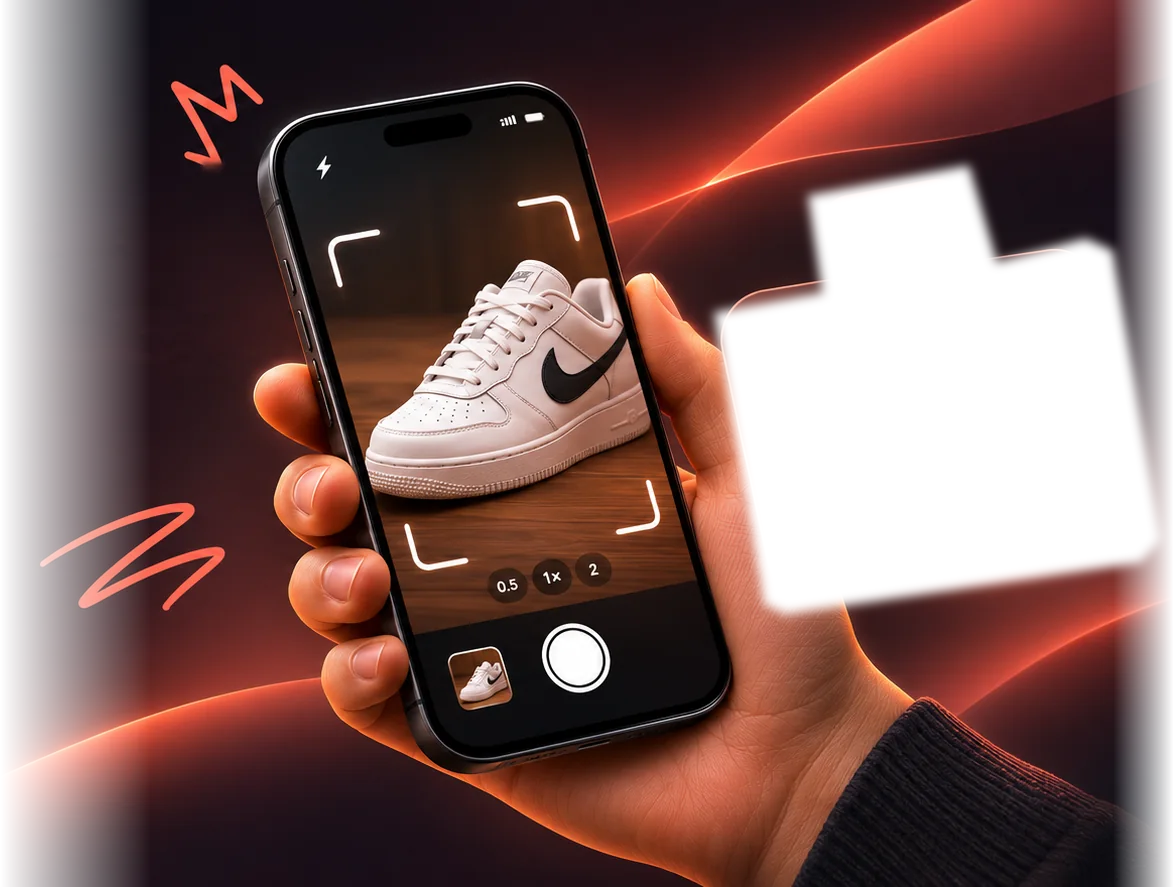
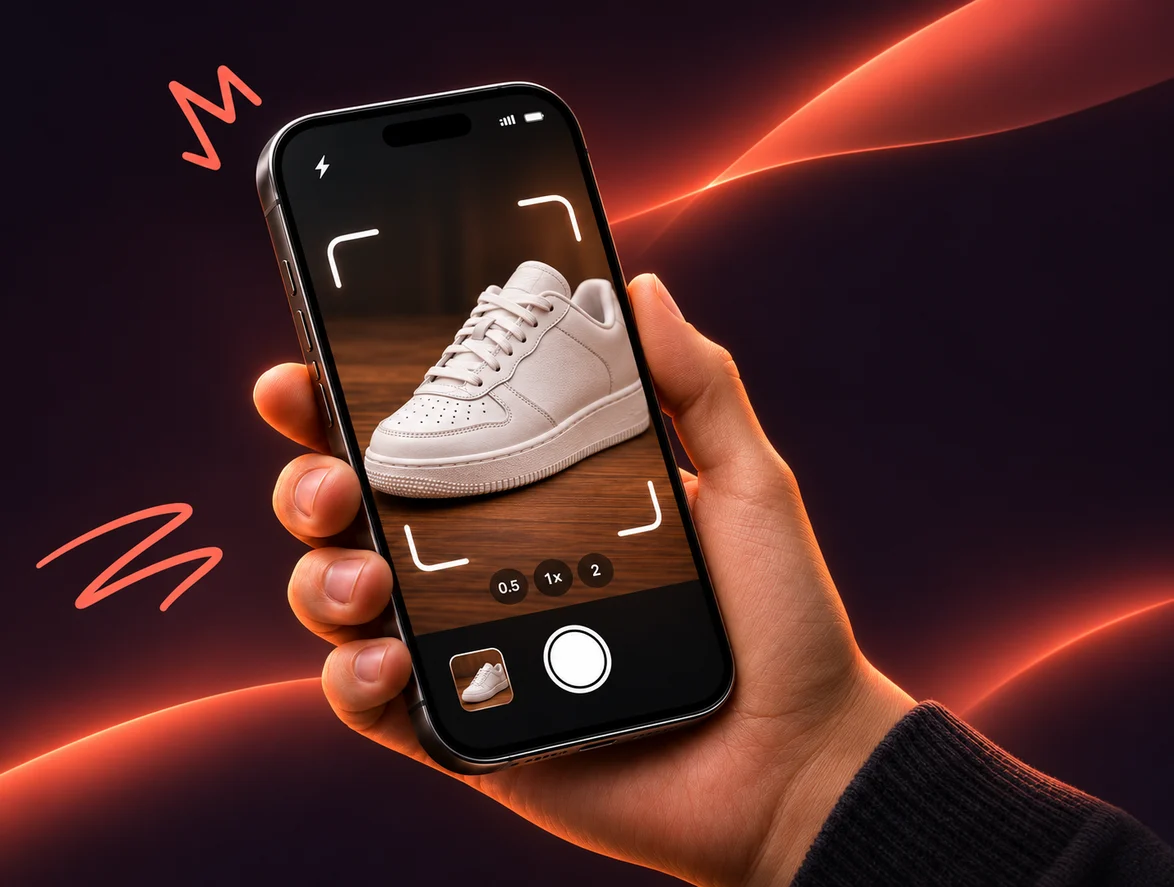
Обкладинка головної: нова картинка без зсунутої картки AI

diff --git a/light/style.css b/light/style.css
@@ -2052,6 +2052,10 @@ details.tk .tk-h { cursor: pointer; }
 @media (max-width: 899px) {
   .chips, .qflt { -webkit-mask-image: linear-gradient(90deg, #000 calc(100% - 24px), transparent); mask-image: linear-gradient(90deg, #000 calc(100% - 24px), transparent); }
 }
+/* обкладинка головної (23.11.2026): нова картинка без старої картки — лівий край мʼяко переходить у фон шапки */
+@media (min-width: 900px) {
+  body.wide .hero .hart img { -webkit-mask-image: linear-gradient(to right, transparent 0, #000 16%, #000 82%, transparent 99%); mask-image: linear-gradient(to right, transparent 0, #000 16%, #000 82%, transparent 99%); }
+}
 
 /* ---- AI-студія: реклама для соцмереж із готового оголошення (рішення власника 22.11.2026, TRAD Everywhere з ТЗ).
    Сторінка studio.html (писана руками; ?item=bag, ?video=making|ready). Входи: кнопка в «Поділіться оголошенням» на кроці

diff --git a/light/verify.html b/light/verify.html
@@ -10,7 +10,7 @@
 <link rel="preconnect" href="https://fonts.googleapis.com">
 <link rel="preconnect" href="https://fonts.gstatic.com" crossorigin>
 <link href="https://fonts.googleapis.com/css2?family=Unbounded:wght@500;700&family=Wix+Madefor+Text:wght@400;500;600;700&display=swap" rel="stylesheet">
-<link rel="stylesheet" href="style.css?v=11230204">
+<link rel="stylesheet" href="style.css?v=11231155">
 </head>
 <!-- Підтвердження особи для значка «Особу підтверджено» (Дія або BankID; інтеграцію погоджує власник). Стилі — tools/trust.css. ?s=wait|ok -->
 <body class="acctpage wide has-bar keepbar">
@@ -67,6 +67,6 @@
   var s0 = q.get('s'); set(s0 === 'wait' || s0 === 'ok' ? s0 : 'ask');
 })();
 </script>
-<script src="shop.js?v=11230204"></script>
+<script src="shop.js?v=11231155"></script>
 </body>
 </html>

diff --git a/light/studio.html b/light/studio.html
@@ -10,7 +10,7 @@
 <link rel="preconnect" href="https://fonts.googleapis.com">
 <link rel="preconnect" href="https://fonts.gstatic.com" crossorigin>
 <link href="https://fonts.googleapis.com/css2?family=Unbounded:wght@500;700&family=Wix+Madefor+Text:wght@400;500;600;700&display=swap" rel="stylesheet">
-<link rel="stylesheet" href="style.css?v=11230204">
+<link rel="stylesheet" href="style.css?v=11231155">
 </head>
 <!-- AI-студія: реклама для соцмереж із готового оголошення (рішення власника 22.11.2026). Стилі — tools/studio.css. -->
 <body class="acctpage wide has-bar keepbar aispage">
@@ -253,6 +253,6 @@
   set(v === 'making' || v === 'ready' || v === 'fail' ? v : 'start');
 })();
 </script>
-<script src="shop.js?v=11230204"></script>
+<script src="shop.js?v=11231155"></script>
 </body>
 </html>

diff --git a/light/promote.html b/light/promote.html
@@ -10,7 +10,7 @@
 <link rel="preconnect" href="https://fonts.googleapis.com">
 <link rel="preconnect" href="https://fonts.gstatic.com" crossorigin>
 <link href="https://fonts.googleapis.com/css2?family=Unbounded:wght@500;700&family=Wix+Madefor+Text:wght@400;500;600;700&display=swap" rel="stylesheet">
-<link rel="stylesheet" href="style.css?v=11230204">
+<link rel="stylesheet" href="style.css?v=11231155">
 </head>
 <!-- «Підняти оголошення»: одне підняття за фіксовану ціну (рішення власника 23.11.2026; ціна — приклад). Стилі — tools/trust.css. ?item=jeans|hoodie|bag -->
 <body class="acctpage wide has-bar keepbar">
@@ -68,6 +68,6 @@
   });
 })();
 </script>
-<script src="shop.js?v=11230204"></script>
+<script src="shop.js?v=11231155"></script>
 </body>
 </html>

diff --git a/light/notifications.html b/light/notifications.html
@@ -10,7 +10,7 @@
 <link rel="preconnect" href="https://fonts.googleapis.com">
 <link rel="preconnect" href="https://fonts.gstatic.com" crossorigin>
 <link href="https://fonts.googleapis.com/css2?family=Unbounded:wght@500;700&family=Wix+Madefor+Text:wght@400;500;600;700&display=swap" rel="stylesheet">
-<link rel="stylesheet" href="style.css?v=11230204">
+<link rel="stylesheet" href="style.css?v=11231155">
 </head>
 <body class="acctpage wide has-bar keepbar">
 <header class="top">
@@ -65,6 +65,6 @@
   if (new URLSearchParams(location.search).get('empty') === '1') { document.getElementById('list').hidden = true; document.getElementById('none').hidden = false; document.getElementById('readall').hidden = true; }
 </script>
 <!-- desk -->
-<script src="shop.js?v=11230204"></script>
+<script src="shop.js?v=11231155"></script>
 </body>
 </html>

diff --git a/light/chat.html b/light/chat.html
@@ -10,7 +10,7 @@
 <link rel="preconnect" href="https://fonts.googleapis.com">
 <link rel="preconnect" href="https://fonts.gstatic.com" crossorigin>
 <link href="https://fonts.googleapis.com/css2?family=Unbounded:wght@500;700&family=Wix+Madefor+Text:wght@400;500;600;700&display=swap" rel="stylesheet">
-<link rel="stylesheet" href="style.css?v=11230204">
+<link rel="stylesheet" href="style.css?v=11231155">
 </head>
 <body class="wide has-bar keepbar chatpage">
 <header class="top">
@@ -95,6 +95,6 @@
   if (new URLSearchParams(location.search).get('empty') === '1') { document.getElementById('list').hidden = true; document.getElementById('none').hidden = false; document.querySelector('.tline').hidden = true; }
 </script>
 <!-- desk -->
-<script src="shop.js?v=11230204"></script>
+<script src="shop.js?v=11231155"></script>
 </body>
 </html>

diff --git a/light/404.html b/light/404.html
@@ -10,7 +10,7 @@
 <link rel="preconnect" href="https://fonts.googleapis.com">
 <link rel="preconnect" href="https://fonts.gstatic.com" crossorigin>
 <link href="https://fonts.googleapis.com/css2?family=Unbounded:wght@500;700&family=Wix+Madefor+Text:wght@400;500;600;700&display=swap" rel="stylesheet">
-<link rel="stylesheet" href="style.css?v=11230204">
+<link rel="stylesheet" href="style.css?v=11231155">
 </head>
 <body class="wide">
 <header class="top">
@@ -56,6 +56,6 @@
   var Q = new URLSearchParams(location.search);
   if (Q.get('gone')) { document.getElementById('lost').hidden = true; document.getElementById('gone').hidden = false; document.title = 'TRAD — Оголошення вже недоступне'; }
 </script>
-<script src="shop.js?v=11230204"></script>
+<script src="shop.js?v=11231155"></script>
 </body>
 </html>

diff --git a/light/city.html b/light/city.html
@@ -10,7 +10,7 @@
 <link rel="preconnect" href="https://fonts.googleapis.com">
 <link rel="preconnect" href="https://fonts.gstatic.com" crossorigin>
 <link href="https://fonts.googleapis.com/css2?family=Unbounded:wght@500;700&family=Wix+Madefor+Text:wght@400;500;600;700&display=swap" rel="stylesheet">
-<link rel="stylesheet" href="style.css?v=11230204">
+<link rel="stylesheet" href="style.css?v=11231155">
 </head>
 <body class="wide has-bar keepbar pickpage">
 <header class="top">
@@ -74,6 +74,6 @@
   });
   document.getElementById('back').addEventListener('click', function (e) { if (history.length > 1) { e.preventDefault(); history.back(); } });
 </script>
-<script src="shop.js?v=11230204"></script>
+<script src="shop.js?v=11231155"></script>
 </body>
 </html>

diff --git a/light/contacts.html b/light/contacts.html
@@ -10,7 +10,7 @@
 <link rel="preconnect" href="https://fonts.googleapis.com">
 <link rel="preconnect" href="https://fonts.gstatic.com" crossorigin>
 <link href="https://fonts.googleapis.com/css2?family=Unbounded:wght@500;700&family=Wix+Madefor+Text:wght@400;500;600;700&display=swap" rel="stylesheet">
-<link rel="stylesheet" href="style.css?v=11230204">
+<link rel="stylesheet" href="style.css?v=11231155">
 </head>
 <body class="acctpage formpage wide has-bar keepbar">
 <header class="top">
@@ -53,6 +53,6 @@
   document.getElementById('save').addEventListener('click', function () { toast('Зміни збережено'); });
 </script>
 <!-- desk -->
-<script src="shop.js?v=11230204"></script>
+<script src="shop.js?v=11231155"></script>
 </body>
 </html>

diff --git a/light/help.html b/light/help.html
@@ -10,7 +10,7 @@
 <link rel="preconnect" href="https://fonts.googleapis.com">
 <link rel="preconnect" href="https://fonts.gstatic.com" crossorigin>
 <link href="https://fonts.googleapis.com/css2?family=Unbounded:wght@500;700&family=Wix+Madefor+Text:wght@400;500;600;700&display=swap" rel="stylesheet">
-<link rel="stylesheet" href="style.css?v=11230204">
+<link rel="stylesheet" href="style.css?v=11231155">
 </head>
 <body class="wide has-bar keepbar">
 <header class="top">
@@ -88,6 +88,6 @@
   });
   if (Q.get('support')) { supOn(true); if (Q.get('support') === 'block') document.querySelector('[data-topic="block"]').click(); }
 </script>
-<script src="shop.js?v=11230204"></script>
+<script src="shop.js?v=11231155"></script>
 </body>
 </html>

diff --git a/light/security.html b/light/security.html
@@ -10,7 +10,7 @@
 <link rel="preconnect" href="https://fonts.googleapis.com">
 <link rel="preconnect" href="https://fonts.gstatic.com" crossorigin>
 <link href="https://fonts.googleapis.com/css2?family=Unbounded:wght@500;700&family=Wix+Madefor+Text:wght@400;500;600;700&display=swap" rel="stylesheet">
-<link rel="stylesheet" href="style.css?v=11230204">
+<link rel="stylesheet" href="style.css?v=11231155">
 </head>
 <body class="acctpage formpage wide has-bar keepbar">
 <header class="top">
@@ -154,6 +154,6 @@
   if (q.get('sheet')) sheet(q.get('sheet'), true);
 </script>
 <!-- desk -->
-<script src="shop.js?v=11230204"></script>
+<script src="shop.js?v=11231155"></script>
 </body>
 </html>

diff --git a/light/privacy.html b/light/privacy.html
@@ -10,7 +10,7 @@
 <link rel="preconnect" href="https://fonts.googleapis.com">
 <link rel="preconnect" href="https://fonts.gstatic.com" crossorigin>
 <link href="https://fonts.googleapis.com/css2?family=Unbounded:wght@500;700&family=Wix+Madefor+Text:wght@400;500;600;700&display=swap" rel="stylesheet">
-<link rel="stylesheet" href="style.css?v=11230204">
+<link rel="stylesheet" href="style.css?v=11231155">
 </head>
 <body class="wide has-bar keepbar">
 <header class="top">
@@ -54,6 +54,6 @@
   var Q = new URLSearchParams(location.search);
 
 </script>
-<script src="shop.js?v=11230204"></script>
+<script src="shop.js?v=11231155"></script>
 </body>
 </html>
